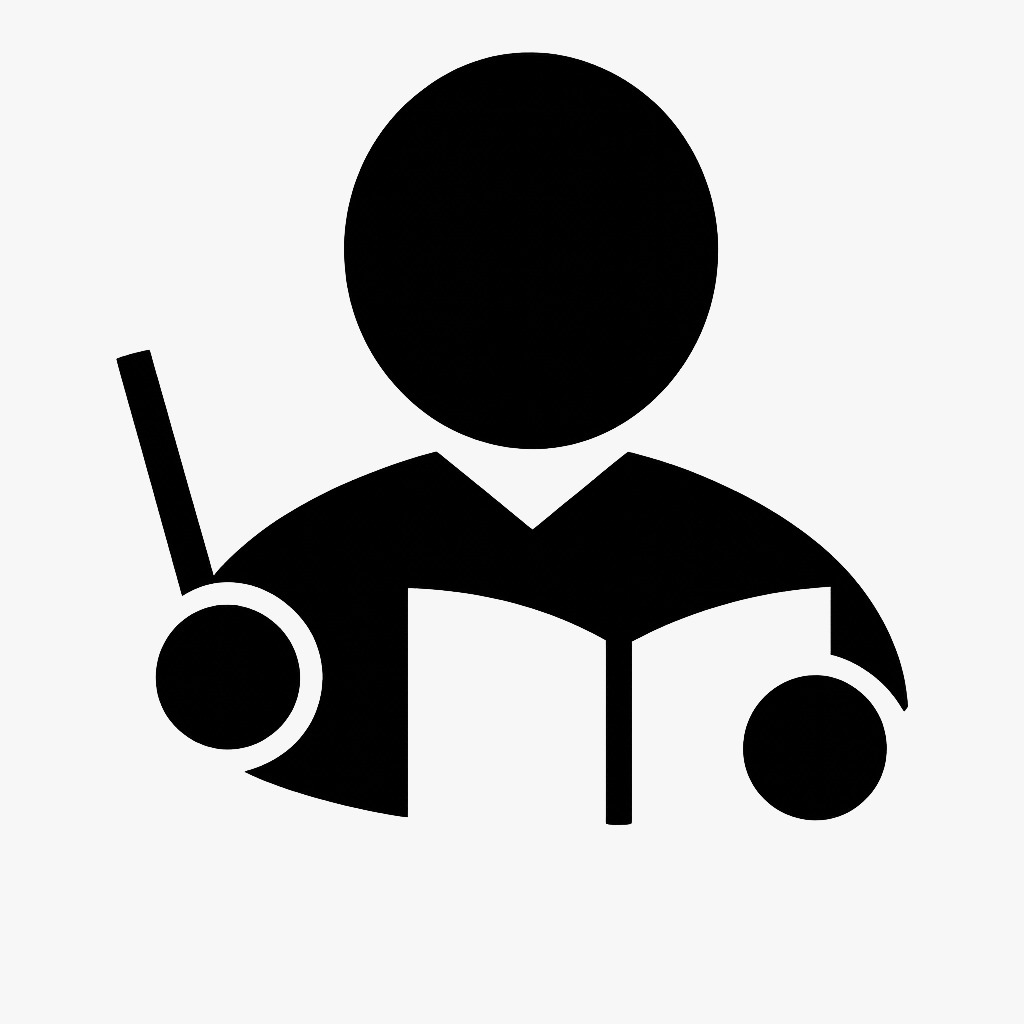
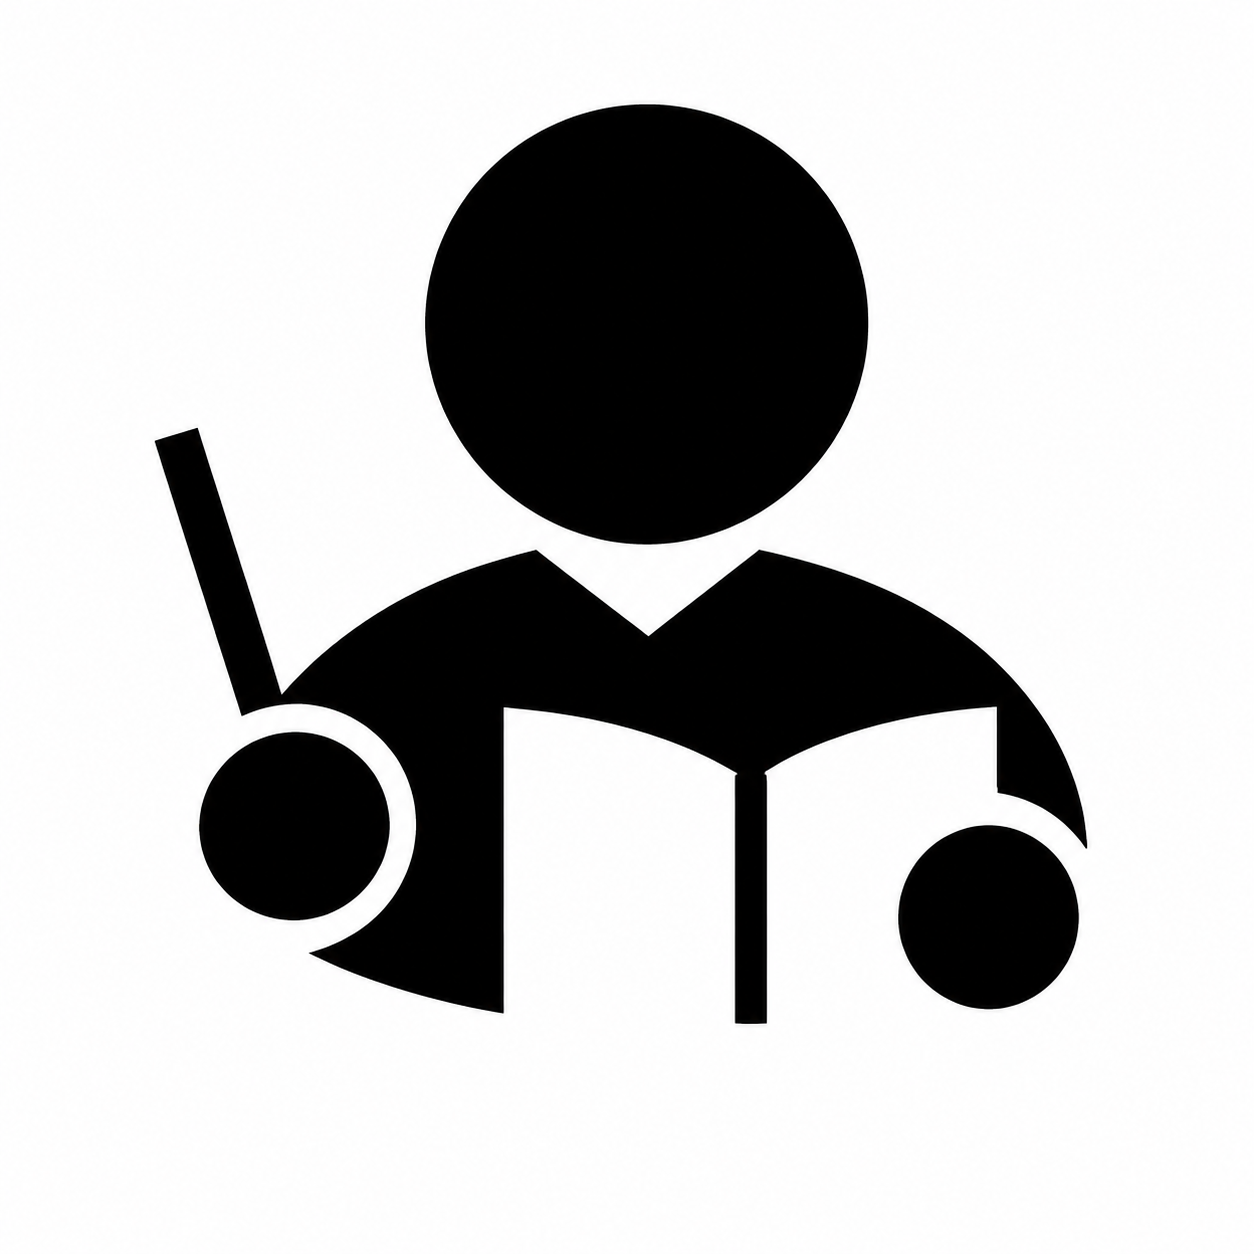
images for roles are changed

diff --git a/css/loginpage.css b/css/loginpage.css
@@ -10,7 +10,7 @@
     margin-top:10%;
     text-align: center;
     width: 64%;
-    /* background-color: #AFA2FF; */
+    /*background-color: #AFA2FF; */
     background-color: #988CE4;
     padding-top: 1.5%;
     padding-bottom: 5.5%;

diff --git a/student/register.php b/student/register.php
@@ -50,30 +50,32 @@
     <link rel ="stylesheet" href ="../css/loginpage.css">
 </head>
 <body>
-    <h2>Welcome, Register yourself at Quizee</h2>
-    <?php if(!empty($error)){ ?>
-        <p style="color:red;"><?php echo htmlspecialchars($error); ?></p>
-    <?php }?>
-    <form method="POST" action="register.php">
-    <input type="text" name="username" placeholder="Username" required><br><br>
-    <input type="text" name="mis" placeholder="MIS" required><br><br>
-    <input type="email" name="email" placeholder="Email" required><br><br>
-    <input type="password" name="password" placeholder="Password" required><br><br>
-    <select name="branch" required> 
-        <option value="Computer Engineering">Computer Engineering</option>
-        <option value="Electronics and Telecommunication Engineering">Electronics and Telecommunication Engineering</option>
-        <option value="Mechanical Engineering">Mechanical Engineering</option>
-        <option value="Civil Engineering">Civil Engineering</option>
-        <option value="Electrical Engineering">Electrical Engineering</option>    
-        <option value="AIML">AIML</option>
-        <option value="Instrumentation and Control Engineering">Instrumentation and Control Engineering</option>
-        <option value="Manufacturing Science and Engineering">Manufacturing Science and Engineering</option>
-        <option value="Metallurgy and Materials Technology">Metallurgy and Materials Technology</option>
-    </select><br><br>
-    <input type="text" name="division" placeholder="Division" required><br><br>
-    <input type="text" name="university" placeholder="University" required><br><br>
-    <button type="submit" name="register">Register</button>
-    </form>
-    <p> Already have an account? <a href="login.php">Login here</a></p>
+    <div class = "login">
+        <h3>Welcome, Register yourself at Quizee</h3>
+        <?php if(!empty($error)){ ?>
+            <p style="color:red;"><?php echo htmlspecialchars($error); ?></p>
+        <?php }?>
+        <form method="POST" action="register.php">
+        <input type="text" name="username" placeholder="Username" required><br><br>
+        <input type="text" name="mis" placeholder="MIS" required><br><br>
+        <input type="email" name="email" placeholder="Email" required><br><br>
+        <input type="password" name="password" placeholder="Password" required><br><br>
+        <select name="branch" required> 
+            <option value="Computer Engineering">Computer Engineering</option>
+            <option value="Electronics and Telecommunication Engineering">Electronics and Telecommunication Engineering</option>
+            <option value="Mechanical Engineering">Mechanical Engineering</option>
+            <option value="Civil Engineering">Civil Engineering</option>
+            <option value="Electrical Engineering">Electrical Engineering</option>    
+            <option value="AIML">AIML</option>
+            <option value="Instrumentation and Control Engineering">Instrumentation and Control Engineering</option>
+            <option value="Manufacturing Science and Engineering">Manufacturing Science and Engineering</option>
+            <option value="Metallurgy and Materials Technology">Metallurgy and Materials Technology</option>
+        </select><br><br>
+        <input type="text" name="division" placeholder="Division" required><br><br>
+        <input type="text" name="university" placeholder="University" required><br><br>
+        <button type="submit" name="register">Register</button>
+        </form>
+        <p> Already have an account? <a href="login.php">Login here</a></p>
+    </div>
 </body>
 </html>